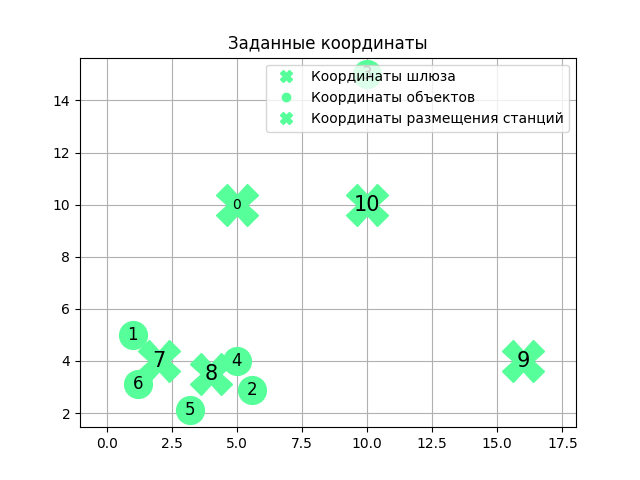
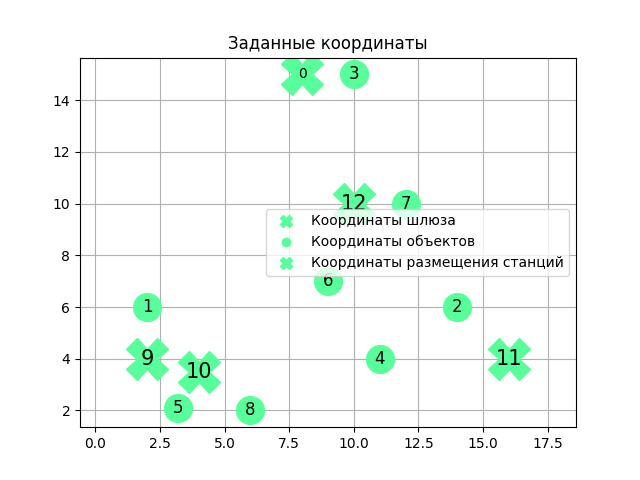
changed arrawstyle in draw

diff --git a/src/drawing/draw.py b/src/drawing/draw.py
@@ -198,8 +198,7 @@ def draw_mip_graph(net: Network, problem: MIP, solution: pd.Series) -> None:
         elif i in net.device.keys():
             node_label.update({int(i): f"d$_{{{i}}}$"})
         elif i in net.station.keys():
-            pass
-            # node_label.update({int(i): f"S$_{{{sta[str(i)]}}}$"})
+            node_label.update({int(i): f"S$_{{{sta[str(i)]}}}$"})
 
 
     icons = {
@@ -229,10 +228,12 @@ def draw_mip_graph(net: Network, problem: MIP, solution: pd.Series) -> None:
     nx.draw_networkx_edges(draw_link_distance, draw_link_distance_pos,
                            edge_color='#3CFF8A', width=12,
                            alpha=.3,
-                           arrows=False)
+                           arrowstyle="simple",
+                           arrows=True)
     nx.draw_networkx_edges(draw_graph, pos,
                            arrowsize=10,
-                           width=3,
+                           arrowstyle="fancy",
+                           width=1,
                            edge_color='#000000')
     # Transform from data coordinates (scaled between xlim and ylim)
     # to display coordinates

diff --git a/problem_solution.py b/problem_solution.py
@@ -104,7 +104,7 @@ def prepare_input_data(data: Dict) -> InputData:
 
 
 if __name__ == "__main__":
-    with open("./problem_test_3.json") as f:
+    with open("./problem_test_4.json") as f:
         data_from_json = json.load(f)
 
     solver = "gurobi"
